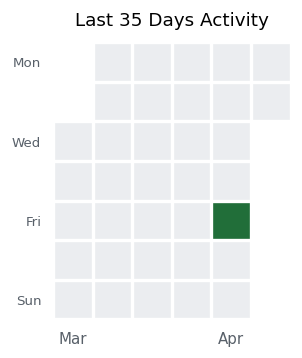
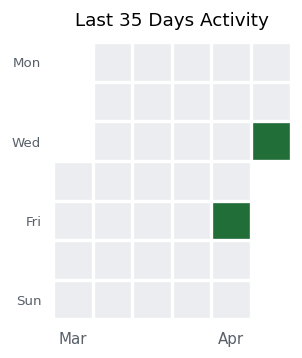
Lab Entry: 2026-04-08

Changed region(s): [[0.8344, 0.338, 0.9834, 0.4609]]

diff --git a/README.md b/README.md
@@ -1,7 +1,7 @@
-# 🏃 平均週 1.4 回でつーがく中！
+# 🏃 平均週 2.3 回でつーがく中！
 <p align="center">
   <img src="./monthly_report.png" alt="Attendance Calendar">
 </p>
 
 ___
-*最終更新: 2026-04-07*
+*最終更新: 2026-04-08*
